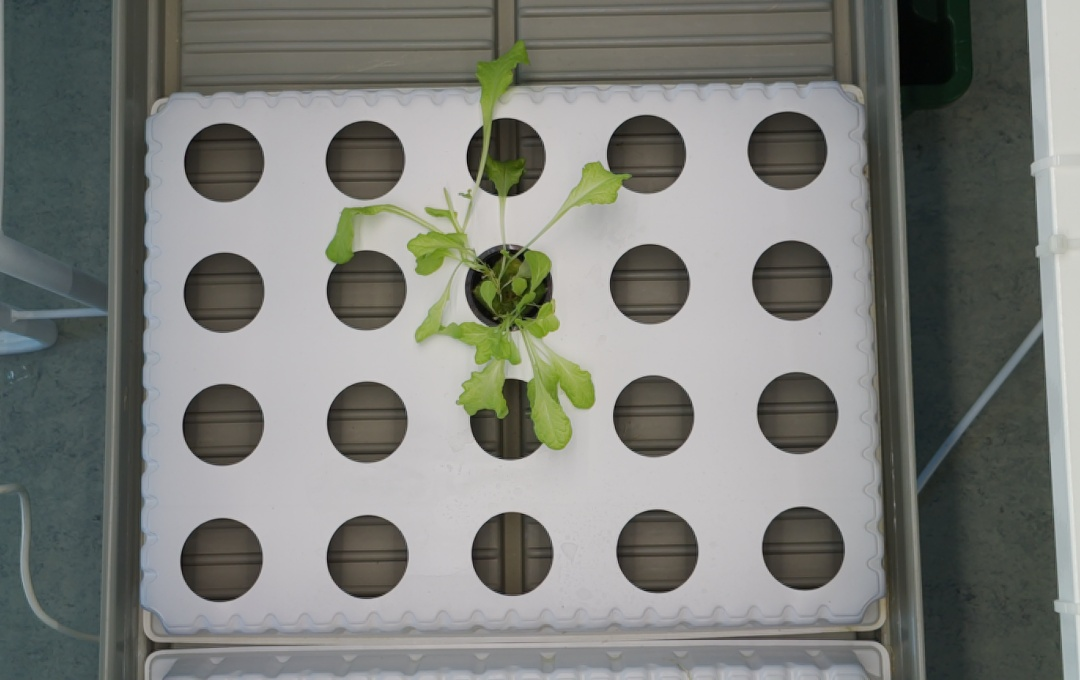
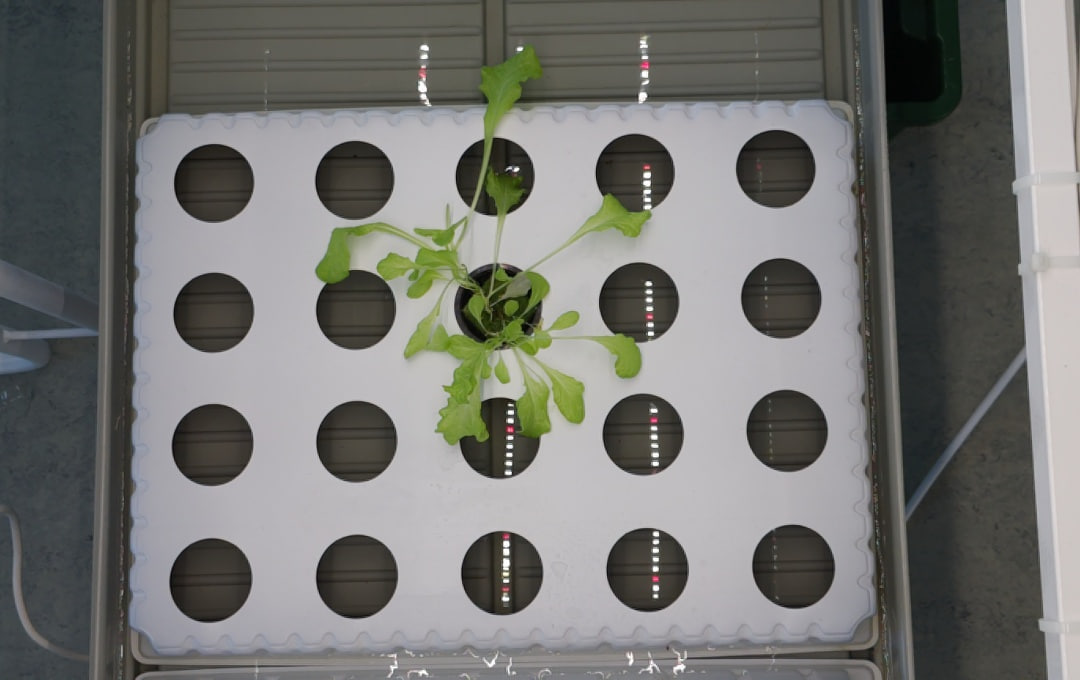
Сдвиг + коеф 20%

diff --git a/split.py b/split.py
@@ -1,0 +1,33 @@
+from PIL import Image
+
+img = Image.open('stream.jpg')
+
+x1, y1 = (130, 100)
+x2, y2 = (x1+738, y1+551)
+
+# 1. Нормализуем координаты (на случай, если x2 < x1 или y2 < y1)
+x_left, x_right = sorted([x1, x2])
+y_top, y_bottom = sorted([y1, y2])
+
+# 2. Параметры сетки
+cols, rows = 5, 4
+tile_w = (x_right - x_left) / cols
+tile_h = (y_bottom - y_top) / rows
+
+# 3. Вычисляем точные границы разрезов (избегаем зазоров и наложений)
+x_bounds = [int(round(x_left + i * tile_w)) for i in range(cols + 1)]
+y_bounds = [int(round(y_top + i * tile_h)) for i in range(rows + 1)]
+x_bounds[-1], y_bounds[-1] = x_right, y_bottom  # Фиксируем правый нижний угол
+
+idx = 1
+for r in range(rows):
+	for c in range(cols):
+		# (left, upper, right, lower)
+		box = (x_bounds[c], y_bounds[r], x_bounds[c+1], y_bounds[r+1])
+		tile = img.crop(box)
+				
+		# Формат JPEG требует режима RGB (RGBA/Grayscale вызовут ошибку)
+		if tile.mode != 'RGB':
+			tile = tile.convert('RGB')
+		tile.save(f'temp/{idx}.jpg')
+		idx += 1

diff --git a/main.py b/main.py
@@ -133,7 +133,7 @@ def photo_processing():
 	if (not is_model_server):
 		return
 	
-	x1, y1 = (146, 86)
+	x1, y1 = (130, 100)
 	x2, y2 = (x1+738, y1+551)
 
 	# 1. Нормализуем координаты (на случай, если x2 < x1 или y2 < y1)
@@ -179,7 +179,7 @@ def photo_processing():
 		start = datetime.now().timestamp()
 		if len(image_queue) > 0:
 			img, idx = image_queue.pop(0)
-			results: list[Results] = model(img, save=False, conf=0.25, verbose=False)
+			results: list[Results] = model(img, save=False, conf=0.20, verbose=False)
 			for result in results:
 				boxes = result.boxes
 				if boxes is not None and len(boxes) > 0: